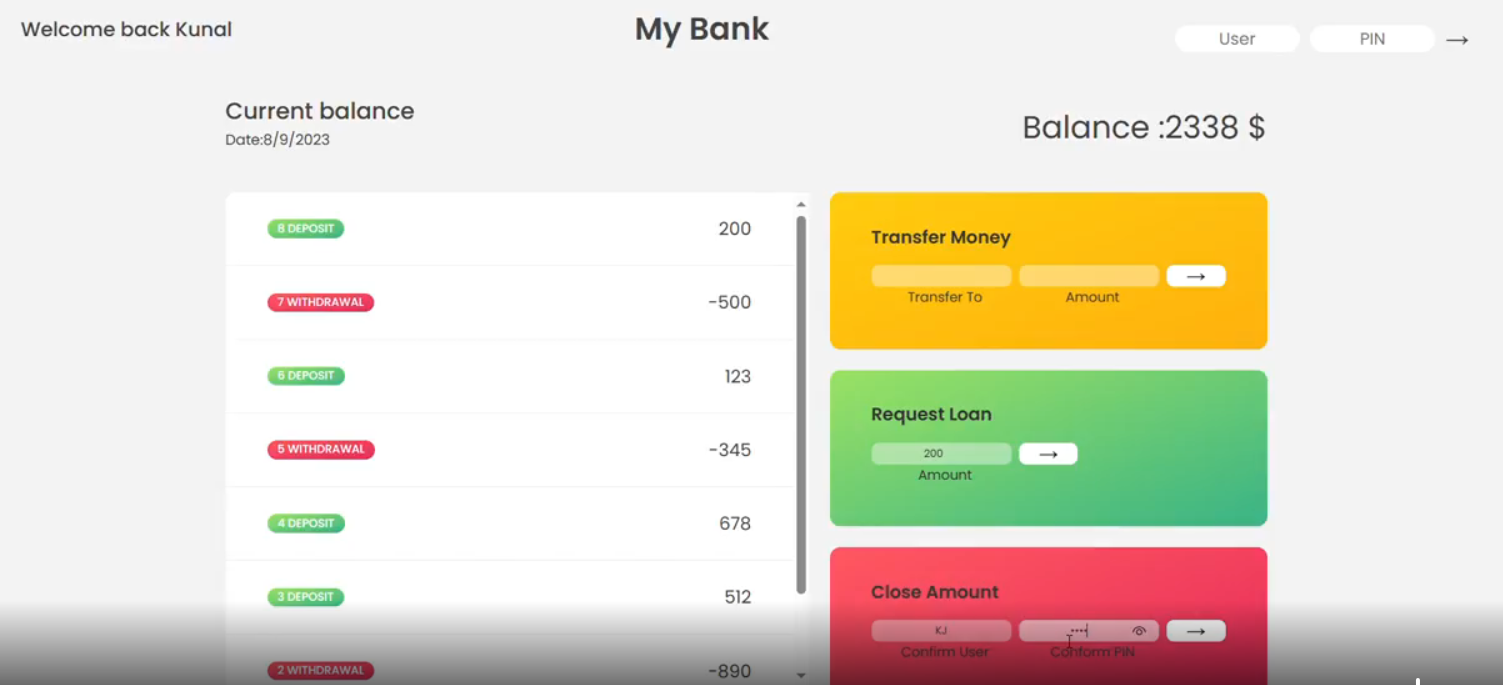
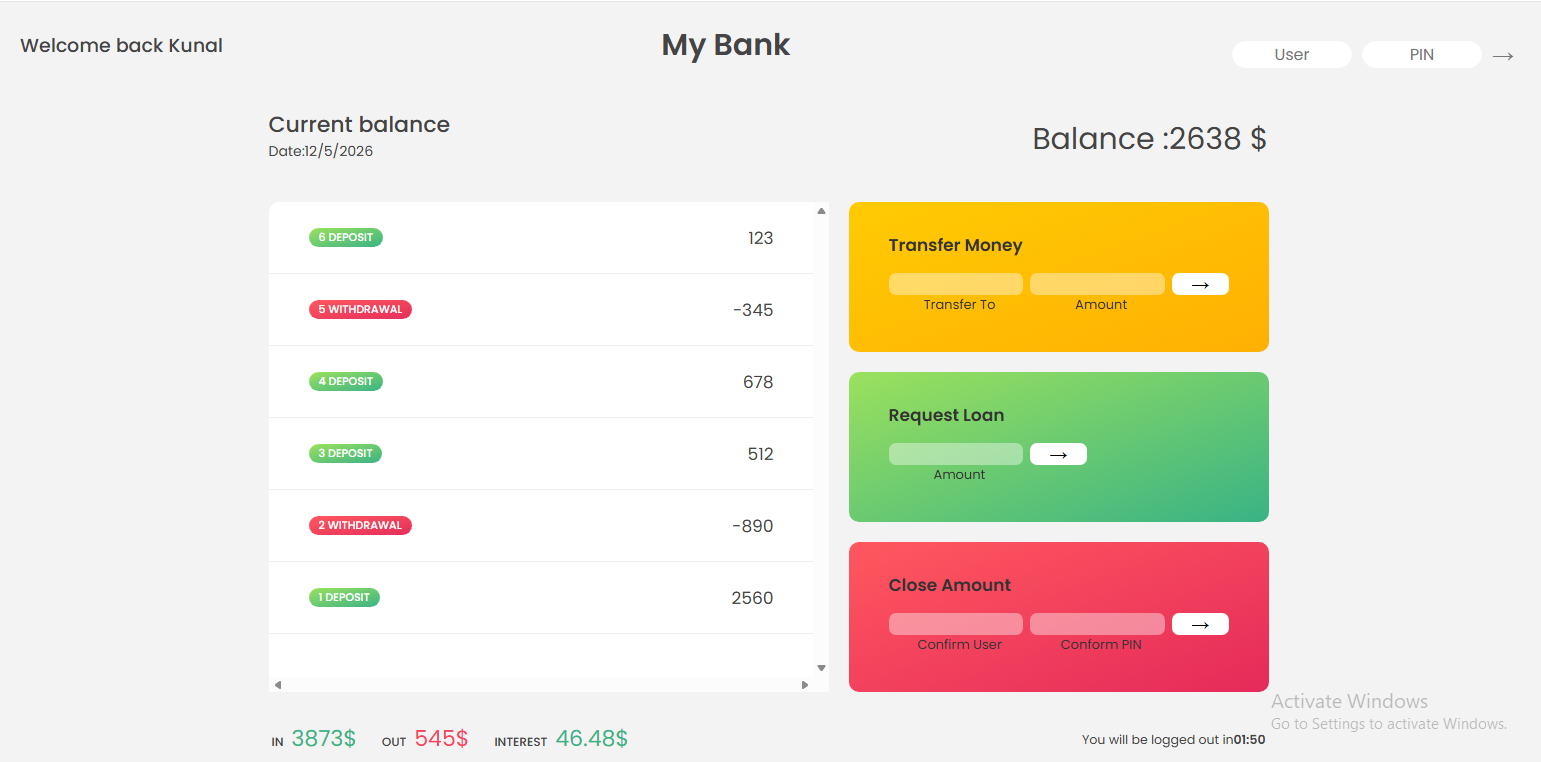
update projects

diff --git a/frontend/src/components/Projects.jsx b/frontend/src/components/Projects.jsx
@@ -7,24 +7,51 @@ import image1 from "../assets/image1.png"
 import image2 from "../assets/image2.png"
 import image3 from "../assets/image3.png"
 
+import image4 from "../assets/image4.png"
+import image5 from "../assets/image5.png"
 const projects = [
   {
     image:image1,
     title: 'Secure Authentication & Authorization System',
     desc: 'Full-stack authentication system featuring secure registration, JWT-based protected routes, role-based access control (RBAC), and Two-Factor Authentication (2FA) with OTP verification.',
-    tags: ['React', 'Node.js', 'Express.js', 'MongoDB', 'Redis', 'JWT', 'bcrypt']
+    tags: ['React', 'Node.js', 'Express.js', 'MongoDB', 'Redis', 'JWT', 'bcrypt'],
+       github: "https://github.com/manalijain128/mernstackauthentication-withredis",
+    demo: "https://drive.google.com/file/d/1VdGAkcR4SeNgpGYs6MvyXeGsxTHzVvTC/view?usp=drivesdk",
   },
   {
     image:image2,
     title: 'AI-Powered Job Portal',
     desc: 'Scalable microservices-based platform featuring recruiter dashboards, job workflows, event-driven communication, and AI tools like a Resume Analyzer and Career Guidance.',
-    tags: ['React.js', 'Node.js', 'Express.js', 'MongoDB', 'Redis', 'Kafka', 'Docker', 'TypeScript']
+    tags: ['React.js', 'Node.js', 'Express.js', 'MongoDB', 'Redis', 'Kafka', 'Docker', 'TypeScript'],
+       github: "https://github.com/manalijain128/JobPortal",
+    demo: "https://drive.google.com/file/d/1wYwFLjeW8qO0EVw36OvUaOB4bXCQ82v1/view?usp=drivesdk",
+ 
   },
   {
     image:image3,
     title: 'Banking System',
     desc: 'Banking System Using Html,Css,Js',
-    tags: ['HTML', 'CSS', 'JavaScript']
+    tags: ['HTML', 'CSS', 'JavaScript'],
+     github: "https://github.com/manalijain128/Banking-System",
+
+    demo: "https://drive.google.com/file/d/1J6kRQxeyZvYlfpp-_R7jopcPFItRJkV8/view?usp=drivesdk",
+
+  },
+   {
+    image:image4,
+    title: 'Stationary Website',
+    desc: 'Statinary Website Using Html, Css, Bootstrap',
+    tags: ['HTML', 'CSS', 'JavaScript'],
+    github: "https://github.com/manalijain128/Stationary Website",
+    demo: "https://drive.google.com/file/d/14ytIn3bXG9SH56SzXtNE3XAOTO8vyYeU/view?usp=drivesdk",
+  },
+  {
+    image:image5,
+    title: 'Quiz App',
+    desc: 'Built a responsive Quiz Application using React, JavaScript, HTML, CSS, and Bootstrap with dynamic questions, real-time scoring.',
+    tags: ['HTML', 'CSS', 'JavaScript','Bootstrap','Reactjs'],
+    github: "https://github.com/manalijain128/Quiz-App",
+    demo: "https://drive.google.com/file/d/1Q7G4aXB7H52PhYwoPEoW0SLIdMe2f9NP/view?usp=drivesdk",
   },
   
 ]
@@ -32,17 +59,51 @@ const projects = [
 const ProjectCard = ({ p }) => (
   <div className="rounded-2xl overflow-hidden bg-gradient-to-b from-black/50 to-black/40 border border-gray-800 p-6 shadow-xl h-full mx-2 md:mx-0 flex flex-col justify-between">
     <div>
-      <div className="h-44 rounded-md mb-4" >
-        <img src={p.image} alt={p.title} className="w-full h-full object-cover" />
+      <div className="h-44 rounded-md mb-4 overflow-hidden">
+        <img
+          src={p.image}
+          alt={p.title}
+          className="w-full h-full object-cover"
+        />
       </div>
 
       <h4 className="text-xl font-bold text-white">{p.title}</h4>
-      <p className="text-gray-400 mt-2 text-sm leading-relaxed">{p.desc}</p>
+      <p className="text-gray-400 mt-2 text-sm leading-relaxed">
+        {p.desc}
+      </p>
+
       <div className="mt-4 flex flex-wrap gap-2">
-        {p.tags.map(t => <span key={t} className="text-xs bg-gray-800/60 text-gray-200 px-2 py-1 rounded">{t}</span>)}
+        {p.tags.map((t) => (
+          <span
+            key={t}
+            className="text-xs bg-gray-800/60 text-gray-200 px-2 py-1 rounded"
+          >
+            {t}
+          </span>
+        ))}
       </div>
     </div>
-   
+
+    {/* Buttons */}
+    <div className="mt-6 flex gap-3">
+      <a
+        href={p.github}
+        target="_blank"
+        rel="noopener noreferrer"
+        className="flex-1 text-center bg-gray-800 hover:bg-gray-700 text-white py-2 px-4 rounded-lg transition"
+      >
+       Source Code
+      </a>
+
+      <a
+        href={p.demo}
+        target="_blank"
+        rel="noopener noreferrer"
+        className="flex-1 text-center bg-blue-600 hover:bg-blue-700 text-white py-2 px-4 rounded-lg transition"
+      >
+        Live Demo
+      </a>
+    </div>
   </div>
 );
 

diff --git a/frontend/src/components/Hero.jsx b/frontend/src/components/Hero.jsx
@@ -132,7 +132,7 @@ const Hero = () => {
                             </motion.a>
                             
                             <div className="flex gap-4">
-                                {[ {Icon: FaGithub, link: '#'}, {Icon: FaLinkedinIn, link: '#'} ].map((social, i) => (
+                                {[ {Icon: FaGithub, link: 'https://github.com/manalijain128'}, {Icon: FaLinkedinIn, link: 'https://www.linkedin.com/in/manali-jain-02bba6238/'} ].map((social, i) => (
                                     <motion.a
                                         key={i}
                                         whileHover={{ y: -3, color: "#60a5fa" }}
